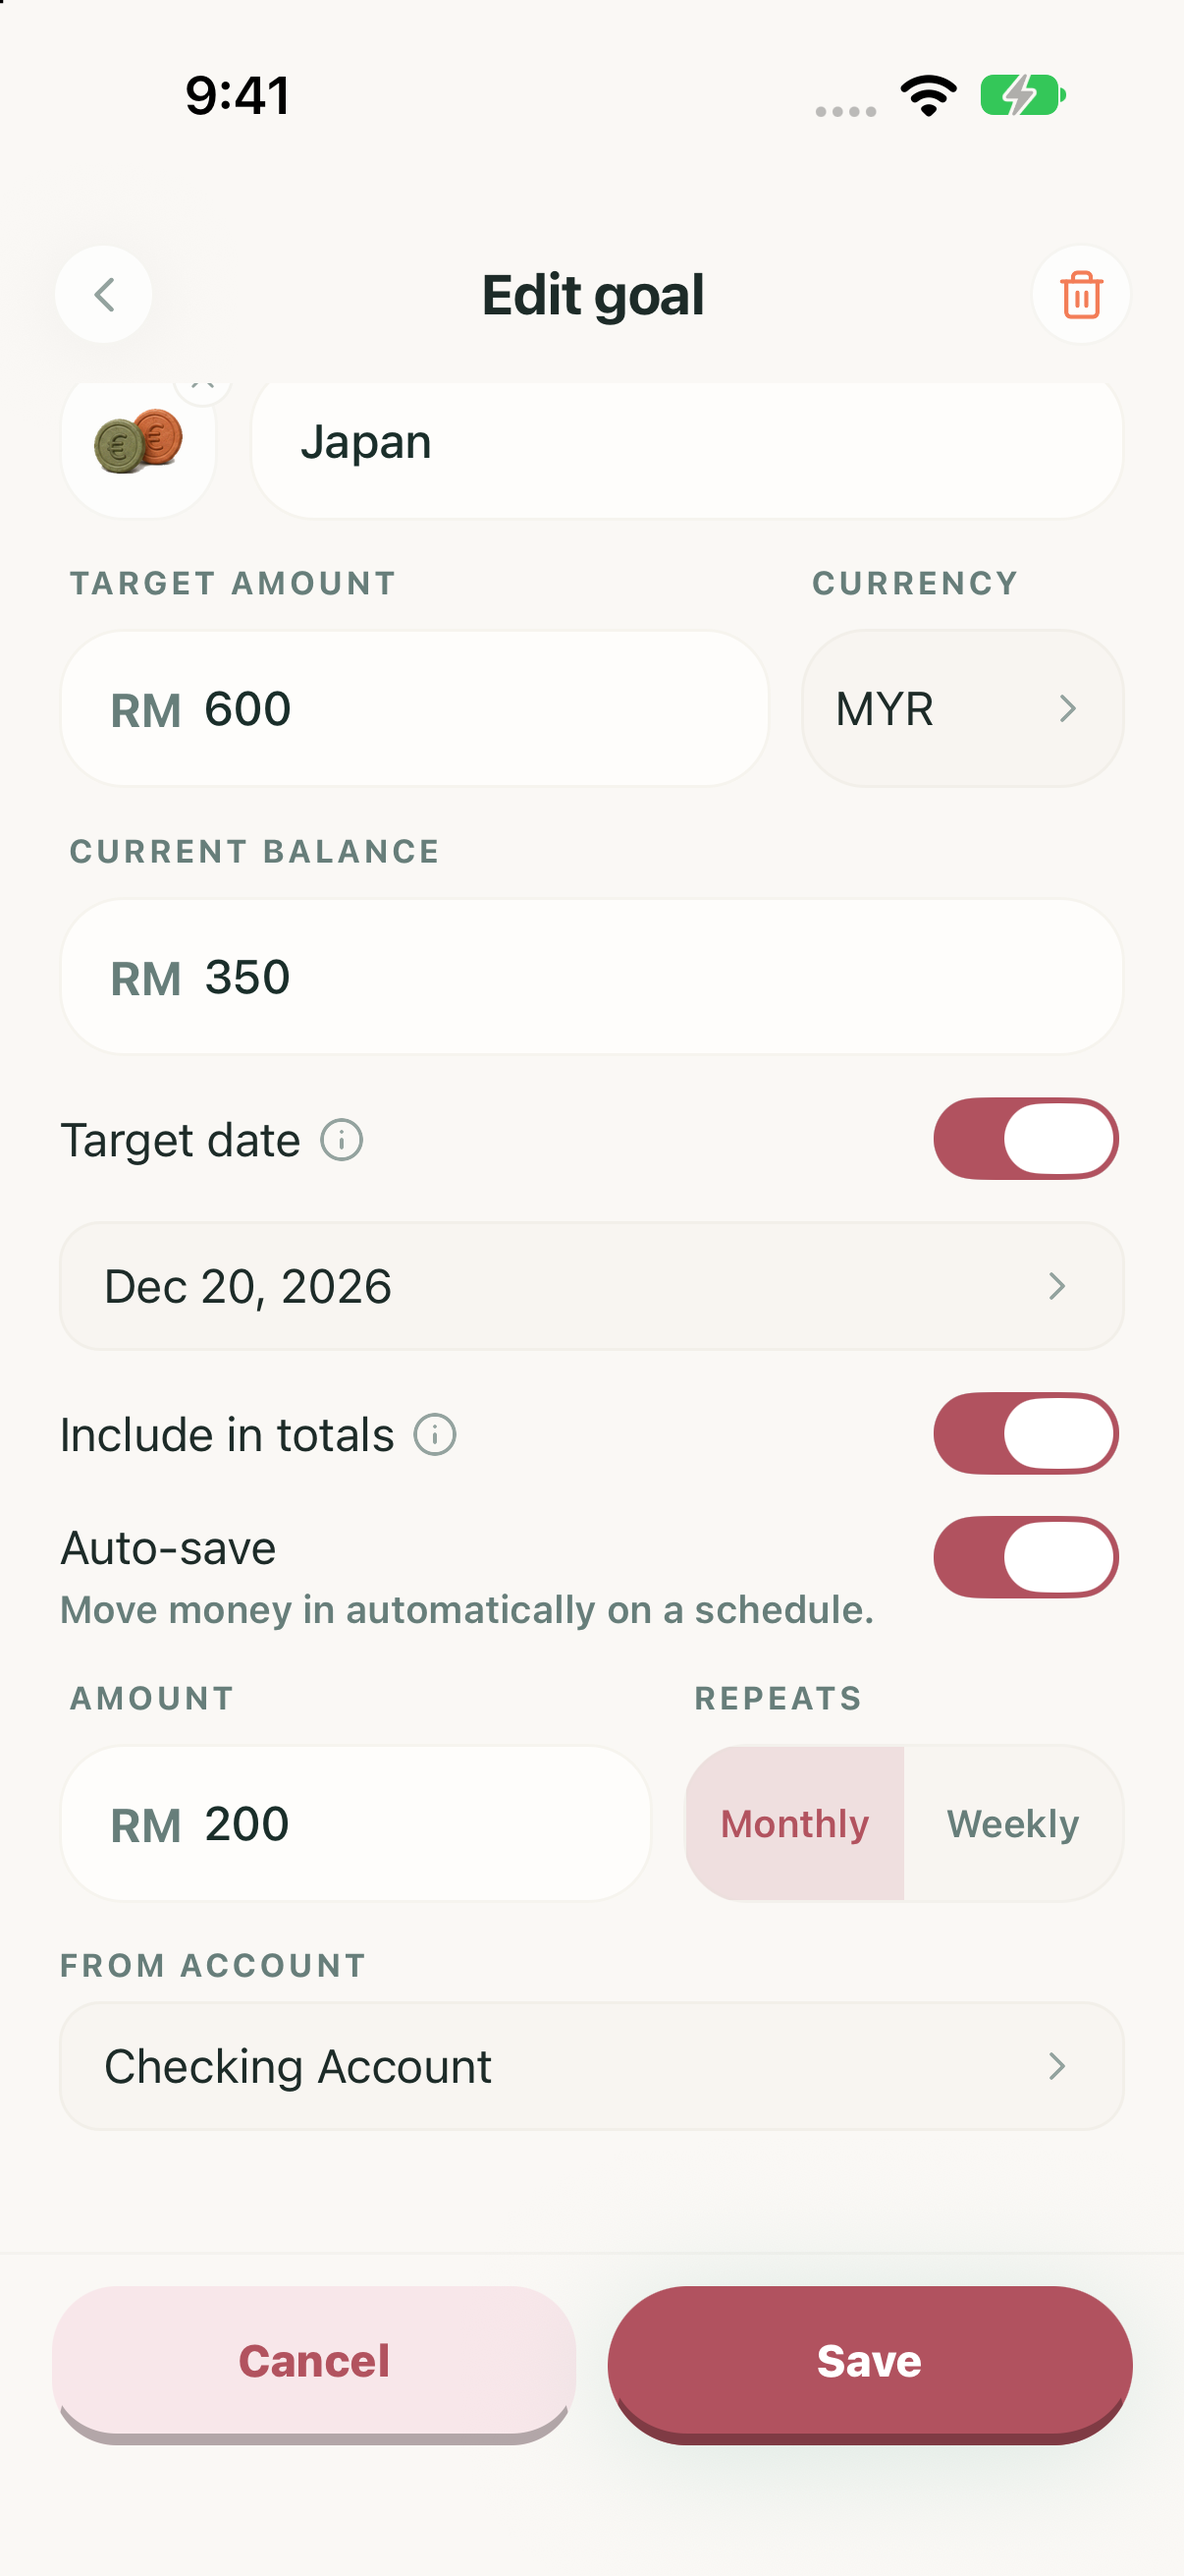
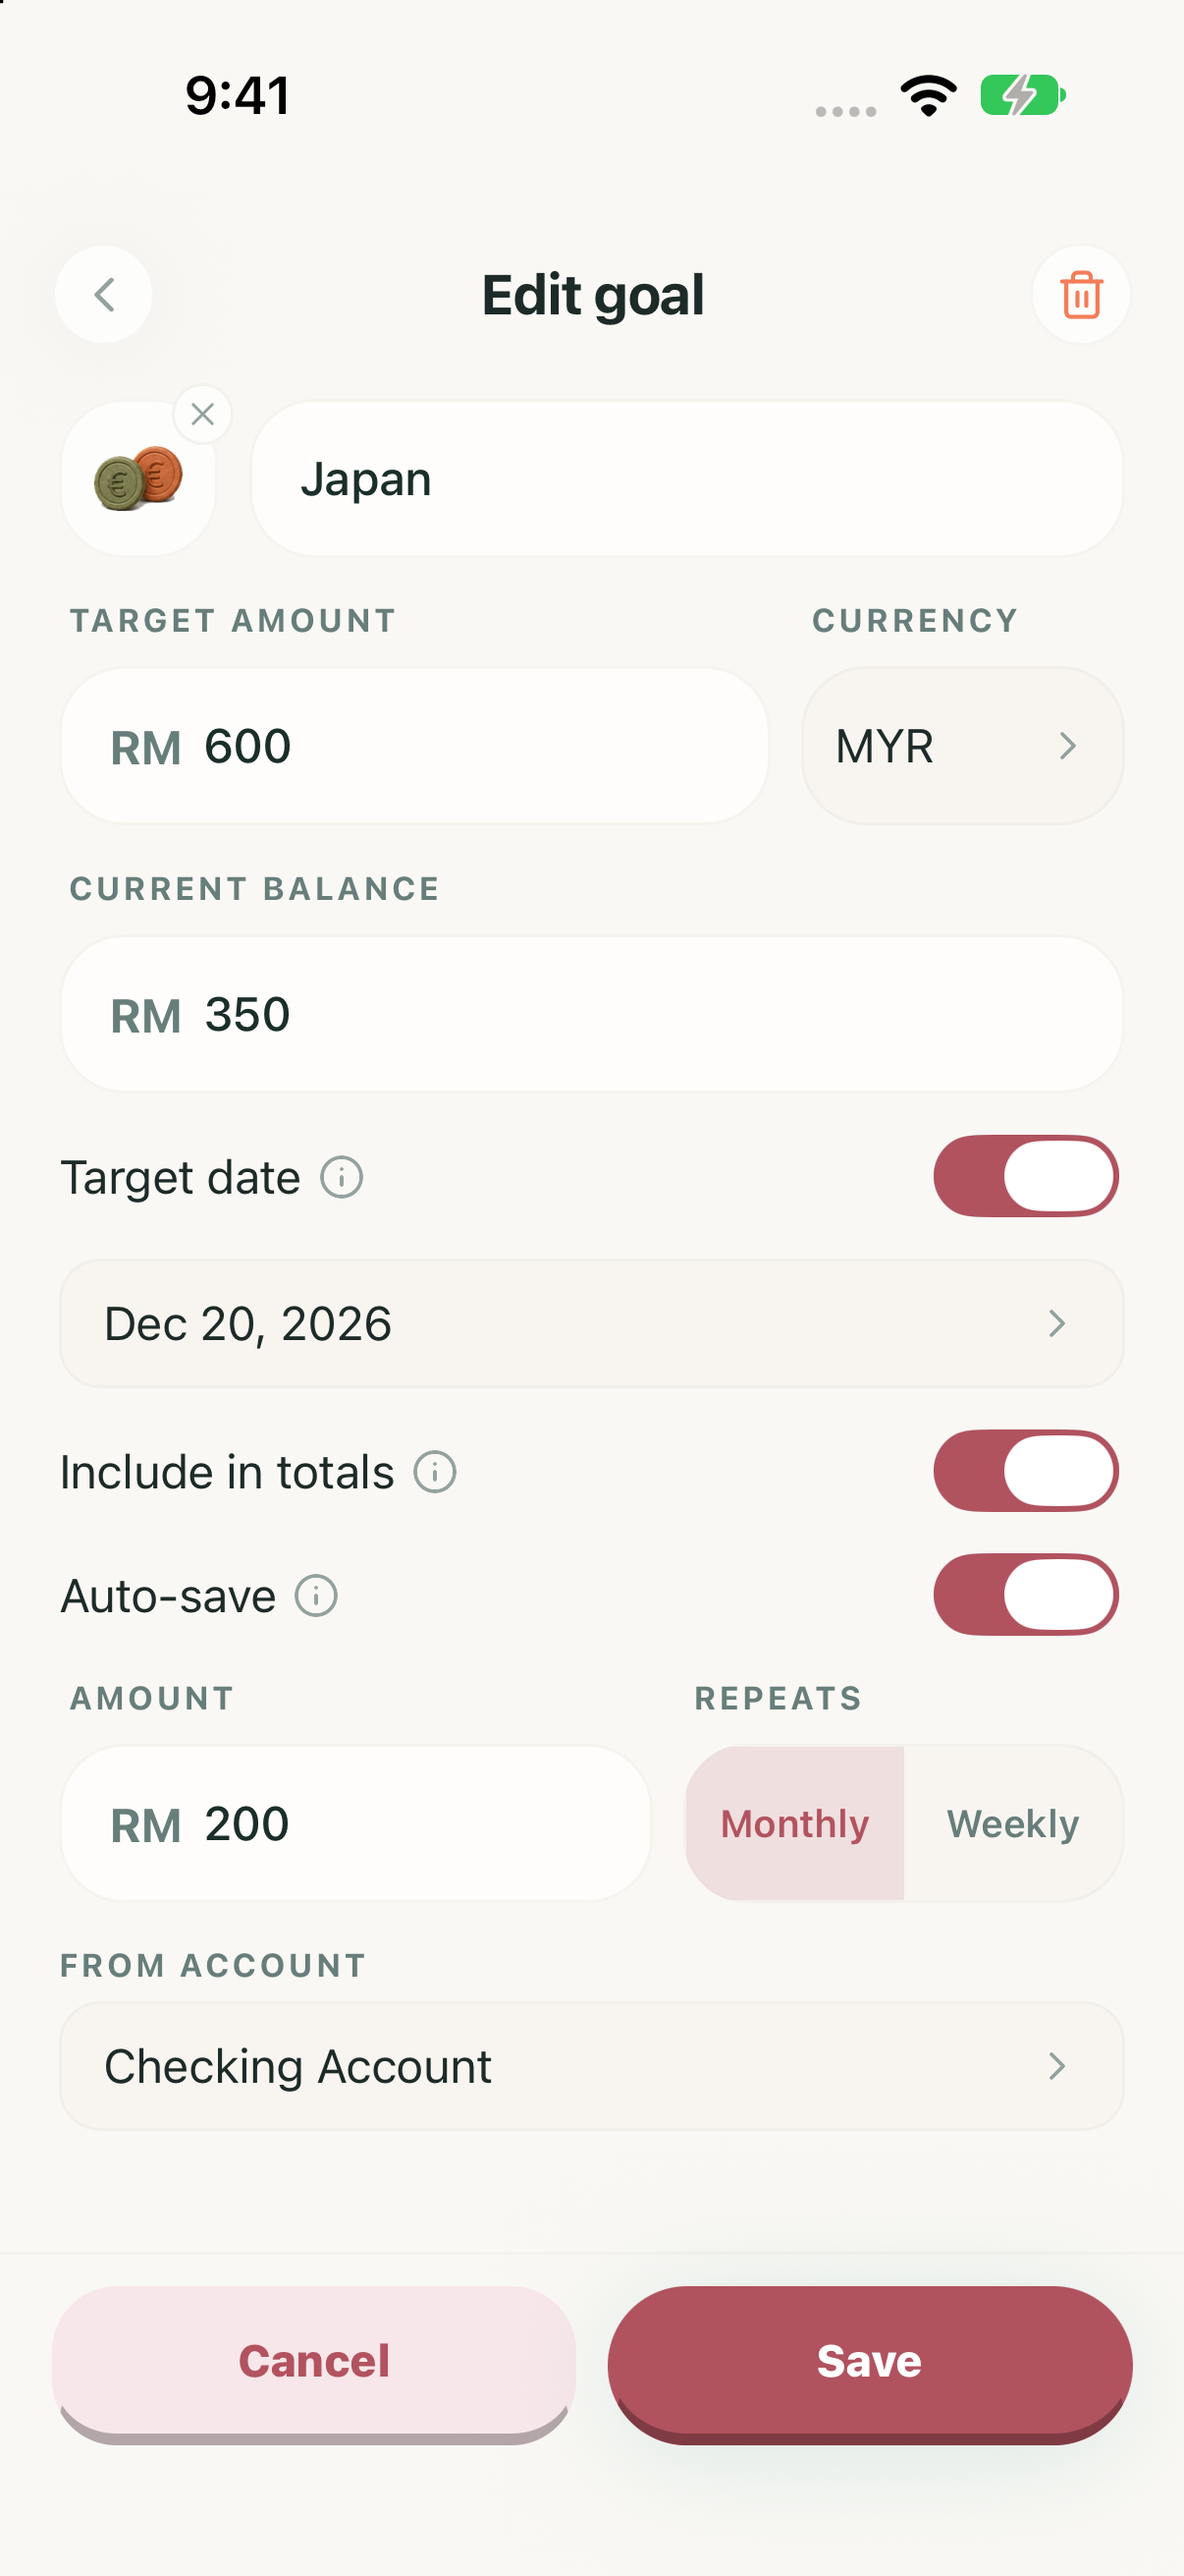
Fix auto-save review findings and move its hint into a tooltip
- Require the auto-save source to be an account the picker still offers
  (same currency, not deleted), so a rule loaded for editing cannot be
  saved back pointing at a gone or re-denominated account.
- Re-picking the goal's current currency no longer clears the source
  account; only a real currency change does.
- The "custom schedule" note now names the Settings screens through their
  own translated labels, so it matches what users see in every language.
- The auto-save hint is an info tooltip, like Target date and Include in
  totals.

diff --git a/features/goals/screens/GoalEditorScreen.tsx b/features/goals/screens/GoalEditorScreen.tsx
@@ -215,10 +215,22 @@ export function GoalEditorScreen({ accountId, onClose, onOpenIconPicker }: GoalE
   const parsedAutoSave = Number.parseFloat(autoSaveAmount);
   const todayKey = dayKeyFromDateLocal(new Date());
   const targetDateValid = !hasTargetDate || targetDate > todayKey;
+  // Inline auto-save keeps v1 simple: only accounts already denominated in the
+  // goal's currency can feed it. Cross-currency rules stay possible through
+  // the full recurring editor.
+  const autoSaveSourceAccounts = useMemo(
+    () => accounts.filter((a) => a.type !== 'goal' && a.currency === currency),
+    [accounts, currency],
+  );
+  const autoSaveSource = autoSaveSourceAccounts.find((a) => a.id === autoSaveSourceId) ?? null;
+
+  // The source must still be one the picker offers: a rule loaded for editing
+  // can point at an account deleted or re-denominated since, and saving that
+  // id back would keep a transfer the engine can never make.
   const autoSaveValid =
     !showAutoSave ||
     !autoSaveEnabled ||
-    (Number.isFinite(parsedAutoSave) && parsedAutoSave > 0 && autoSaveSourceId != null);
+    (Number.isFinite(parsedAutoSave) && parsedAutoSave > 0 && autoSaveSource != null);
   // Strict (Number, not parseFloat) so a typo like "1.2.3" blocks Save instead
   // of silently writing an adjustment to 1.2 — this field moves real money.
   const parsedBalance = Number(balanceInput);
@@ -236,15 +248,6 @@ export function GoalEditorScreen({ accountId, onClose, onOpenIconPicker }: GoalE
     () => Array.from(new Set([settings.currencyCode, ...fxCurrencies, currency])),
     [settings.currencyCode, fxCurrencies, currency],
   );
-
-  // Inline auto-save keeps v1 simple: only accounts already denominated in the
-  // goal's currency can feed it. Cross-currency rules stay possible through
-  // the full recurring editor.
-  const autoSaveSourceAccounts = useMemo(
-    () => accounts.filter((a) => a.type !== 'goal' && a.currency === currency),
-    [accounts, currency],
-  );
-  const autoSaveSource = autoSaveSourceAccounts.find((a) => a.id === autoSaveSourceId) ?? null;
 
   const handleSave = useCallback(() => {
     if (!canSave) return;
@@ -264,7 +267,7 @@ export function GoalEditorScreen({ accountId, onClose, onOpenIconPicker }: GoalE
     const wantsAutoSave =
       showAutoSave &&
       autoSaveEnabled &&
-      autoSaveSourceId != null &&
+      autoSaveSource != null &&
       Number.isFinite(parsedAutoSave) &&
       parsedAutoSave > 0;
     if (!isEditing) {
@@ -451,6 +454,7 @@ export function GoalEditorScreen({ accountId, onClose, onOpenIconPicker }: GoalE
     accounts,
     autoSaveCadence,
     autoSaveEnabled,
+    autoSaveSource,
     autoSaveSourceId,
     canSave,
     checkLimit,
@@ -701,11 +705,12 @@ export function GoalEditorScreen({ accountId, onClose, onOpenIconPicker }: GoalE
           {showAutoSave ? (
             <>
               <View className="flex-row items-center justify-between gap-3">
-                <View className="flex-1">
+                <View className="flex-1 flex-row items-center gap-1.5">
                   <Text variant="body">{I18n.t('goals.auto_save_toggle')}</Text>
-                  <Text variant="caption" tone="muted" className="mt-0.5">
-                    {I18n.t('goals.auto_save_hint')}
-                  </Text>
+                  <InfoTooltipButton
+                    title={I18n.t('goals.auto_save_toggle')}
+                    infoTooltip={I18n.t('goals.auto_save_hint')}
+                  />
                 </View>
                 <Switch
                   value={autoSaveEnabled}
@@ -791,7 +796,10 @@ export function GoalEditorScreen({ accountId, onClose, onOpenIconPicker }: GoalE
             <View className="gap-0.5">
               <Text variant="body">{I18n.t('goals.auto_save_toggle')}</Text>
               <Text variant="caption" tone="muted">
-                {I18n.t('goals.auto_save_managed_in_recurring')}
+                {I18n.t('goals.auto_save_managed_in_recurring', {
+                  settings: I18n.t('settings.title'),
+                  recurring: I18n.t('settings.recurring'),
+                })}
               </Text>
             </View>
           ) : null}
@@ -823,9 +831,11 @@ export function GoalEditorScreen({ accountId, onClose, onOpenIconPicker }: GoalE
             } else {
               convertField(startingAmount, setStartingAmount);
             }
+            // The source must share the goal's currency, so a new currency
+            // needs a new source; re-picking the same one keeps it.
+            setAutoSaveSourceId(null);
           }
           setCurrency(code);
-          setAutoSaveSourceId(null);
           setShowCurrencyPicker(false);
         }}
       />

diff --git a/lib/i18n/locales/th.ts b/lib/i18n/locales/th.ts
@@ -2241,7 +2241,7 @@ const th = {
     auto_save_no_source: 'ยังไม่มีบัญชี {{currency}} การออมอัตโนมัติต้องใช้บัญชีสกุลเงินเดียวกัน',
     auto_save_rule_name: 'ออมอัตโนมัติ: {{name}}',
     auto_save_managed_in_recurring:
-      'การออมอัตโนมัติของเป้าหมายนี้ใช้กำหนดการแบบกำหนดเอง เปลี่ยนได้ที่การตั้งค่า ในส่วนรายการประจำ',
+      'การออมอัตโนมัติของเป้าหมายนี้ใช้กำหนดการแบบกำหนดเอง เปลี่ยนได้ที่ {{settings}} > {{recurring}}',
     edit_title: 'แก้ไขเป้าหมาย',
     delete_title: 'ลบเป้าหมาย?',
     delete_message: 'การลบนี้จะลบเป้าหมายและธุรกรรมของเป้าหมายด้วย ไม่สามารถย้อนกลับได้',

diff --git a/lib/i18n/locales/hi.ts b/lib/i18n/locales/hi.ts
@@ -2277,7 +2277,7 @@ const hi = {
       'अभी कोई {{currency}} खाता नहीं है। ऑटो-सेव के लिए उसी मुद्रा का खाता चाहिए।',
     auto_save_rule_name: 'ऑटो-सेव: {{name}}',
     auto_save_managed_in_recurring:
-      'इस लक्ष्य का ऑटो-सेव कस्टम शेड्यूल पर है। इसे सेटिंग्स में आवर्ती के अंतर्गत बदलें।',
+      'इस लक्ष्य का ऑटो-सेव कस्टम शेड्यूल पर है। इसे {{settings}} > {{recurring}} में बदलें।',
     edit_title: 'लक्ष्य संपादित करें',
     delete_title: 'लक्ष्य हटाएं?',
     delete_message: 'इससे लक्ष्य और उसके लेनदेन हट जाएंगे। इसे वापस नहीं किया जा सकता।',

diff --git a/lib/i18n/locales/uk.ts b/lib/i18n/locales/uk.ts
@@ -2288,7 +2288,7 @@ const uk = {
       'Поки немає рахунків у {{currency}}. Для автозаощадження потрібен рахунок у тій самій валюті.',
     auto_save_rule_name: 'Автозаощадження: {{name}}',
     auto_save_managed_in_recurring:
-      'Автозаощадження цієї цілі має власний розклад. Змініть його в Налаштуваннях, у розділі Регулярні.',
+      'Автозаощадження цієї цілі має власний розклад. Змініть його в розділі {{settings}} > {{recurring}}.',
     edit_title: 'Редагувати ціль',
     delete_title: 'Видалити ціль?',
     delete_message: 'Ціль та її операції буде видалено. Цю дію не можна скасувати.',

diff --git a/lib/i18n/locales/ru.ts b/lib/i18n/locales/ru.ts
@@ -2294,7 +2294,7 @@ const ru = {
       'Пока нет счетов в {{currency}}. Для автонакопления нужен счёт в той же валюте.',
     auto_save_rule_name: 'Автонакопление: {{name}}',
     auto_save_managed_in_recurring:
-      'Автонакопление этой цели идёт по особому расписанию. Измените его в Настройках, в разделе Регулярные.',
+      'Автонакопление этой цели идёт по особому расписанию. Измените его в разделе {{settings}} > {{recurring}}.',
     edit_title: 'Изменить цель',
     delete_title: 'Удалить цель?',
     delete_message: 'Цель и её операции будут удалены. Это действие нельзя отменить.',

diff --git a/lib/i18n/locales/vi.ts b/lib/i18n/locales/vi.ts
@@ -2269,7 +2269,7 @@ const vi = {
       'Chưa có tài khoản {{currency}}. Tự động tiết kiệm cần tài khoản cùng loại tiền tệ.',
     auto_save_rule_name: 'Tự động tiết kiệm: {{name}}',
     auto_save_managed_in_recurring:
-      'Tự động tiết kiệm của mục tiêu này dùng lịch tùy chỉnh. Hãy thay đổi trong Cài đặt, mục Định kỳ.',
+      'Tự động tiết kiệm của mục tiêu này dùng lịch tùy chỉnh. Hãy thay đổi trong {{settings}} > {{recurring}}.',
     edit_title: 'Sửa mục tiêu',
     delete_title: 'Xóa mục tiêu?',
     delete_message: 'Thao tác này xóa mục tiêu và các giao dịch của nó. Không thể hoàn tác.',

diff --git a/lib/i18n/locales/ja.ts b/lib/i18n/locales/ja.ts
@@ -2266,7 +2266,7 @@ const ja = {
       '{{currency}} の口座がまだありません。自動貯金には同じ通貨の口座が必要です。',
     auto_save_rule_name: '自動貯金: {{name}}',
     auto_save_managed_in_recurring:
-      'この目標の自動貯金はカスタムのスケジュールです。設定の「定期」から変更してください。',
+      'この目標の自動貯金はカスタムのスケジュールです。{{settings}} > {{recurring}} から変更してください。',
     edit_title: '目標を編集',
     delete_title: '目標を削除しますか？',
     delete_message: '目標とその取引が削除されます。この操作は取り消せません。',

diff --git a/lib/i18n/locales/it.ts b/lib/i18n/locales/it.ts
@@ -2300,7 +2300,7 @@ const it = {
       'Nessun conto in {{currency}} per ora. Il risparmio automatico richiede un conto nella stessa valuta.',
     auto_save_rule_name: 'Risparmio automatico: {{name}}',
     auto_save_managed_in_recurring:
-      'Il risparmio automatico di questo obiettivo segue una pianificazione personalizzata. Modificalo in Impostazioni, Ricorrenti.',
+      'Il risparmio automatico di questo obiettivo segue una pianificazione personalizzata. Modificalo in {{settings}} > {{recurring}}.',
     edit_title: 'Modifica obiettivo',
     delete_title: "Eliminare l'obiettivo?",
     delete_message: "Questo elimina l'obiettivo e le sue transazioni. Non può essere annullato.",

diff --git a/lib/i18n/locales/fr.ts b/lib/i18n/locales/fr.ts
@@ -2314,7 +2314,7 @@ const fr = {
       "Aucun compte en {{currency}} pour l'instant. L'épargne automatique nécessite un compte dans la même devise.",
     auto_save_rule_name: 'Épargne automatique : {{name}}',
     auto_save_managed_in_recurring:
-      "L'épargne automatique de cet objectif suit un calendrier personnalisé. Modifiez-la dans Réglages, Récurrents.",
+      "L'épargne automatique de cet objectif suit un calendrier personnalisé. Modifiez-la dans {{settings}} > {{recurring}}.",
     edit_title: "Modifier l'objectif",
     delete_title: "Supprimer l'objectif ?",
     delete_message: "Cela supprime l'objectif et ses transactions. Cette action est irréversible.",

diff --git a/lib/i18n/locales/zh.ts b/lib/i18n/locales/zh.ts
@@ -2161,7 +2161,8 @@ const zh = {
     auto_save_source_placeholder: '选择账户',
     auto_save_no_source: '还没有 {{currency}} 账户。自动储蓄需要一个相同币种的账户。',
     auto_save_rule_name: '自动储蓄：{{name}}',
-    auto_save_managed_in_recurring: '此目标的自动储蓄使用自定义周期。请在设置的“定期”中修改。',
+    auto_save_managed_in_recurring:
+      '此目标的自动储蓄使用自定义周期。请在 {{settings}} > {{recurring}} 中修改。',
     edit_title: '编辑目标',
     delete_title: '删除目标？',
     delete_message: '这会删除该目标及其交易。此操作无法撤销。',

diff --git a/lib/i18n/locales/zh-Hant.ts b/lib/i18n/locales/zh-Hant.ts
@@ -2161,7 +2161,8 @@ const zhHant = {
     auto_save_source_placeholder: '選擇帳戶',
     auto_save_no_source: '還沒有 {{currency}} 帳戶。自動儲蓄需要一個相同幣種的帳戶。',
     auto_save_rule_name: '自動儲蓄：{{name}}',
-    auto_save_managed_in_recurring: '此目標的自動儲蓄使用自訂週期。請在設定的「定期」中修改。',
+    auto_save_managed_in_recurring:
+      '此目標的自動儲蓄使用自訂週期。請在 {{settings}} > {{recurring}} 中修改。',
     edit_title: '編輯目標',
     delete_title: '刪除目標？',
     delete_message: '這會刪除該目標及其交易。此操作無法撤銷。',

diff --git a/lib/i18n/locales/ko.ts b/lib/i18n/locales/ko.ts
@@ -2252,7 +2252,7 @@ const ko = {
       '아직 {{currency}} 계좌가 없어요. 자동 저축에는 같은 통화의 계좌가 필요합니다.',
     auto_save_rule_name: '자동 저축: {{name}}',
     auto_save_managed_in_recurring:
-      '이 목표의 자동 저축은 사용자 지정 일정입니다. 설정의 반복 항목에서 변경하세요.',
+      '이 목표의 자동 저축은 사용자 지정 일정입니다. {{settings}} > {{recurring}}에서 변경하세요.',
     edit_title: '목표 편집',
     delete_title: '목표를 삭제할까요?',
     delete_message: '목표와 관련 거래가 모두 삭제됩니다. 되돌릴 수 없어요.',
